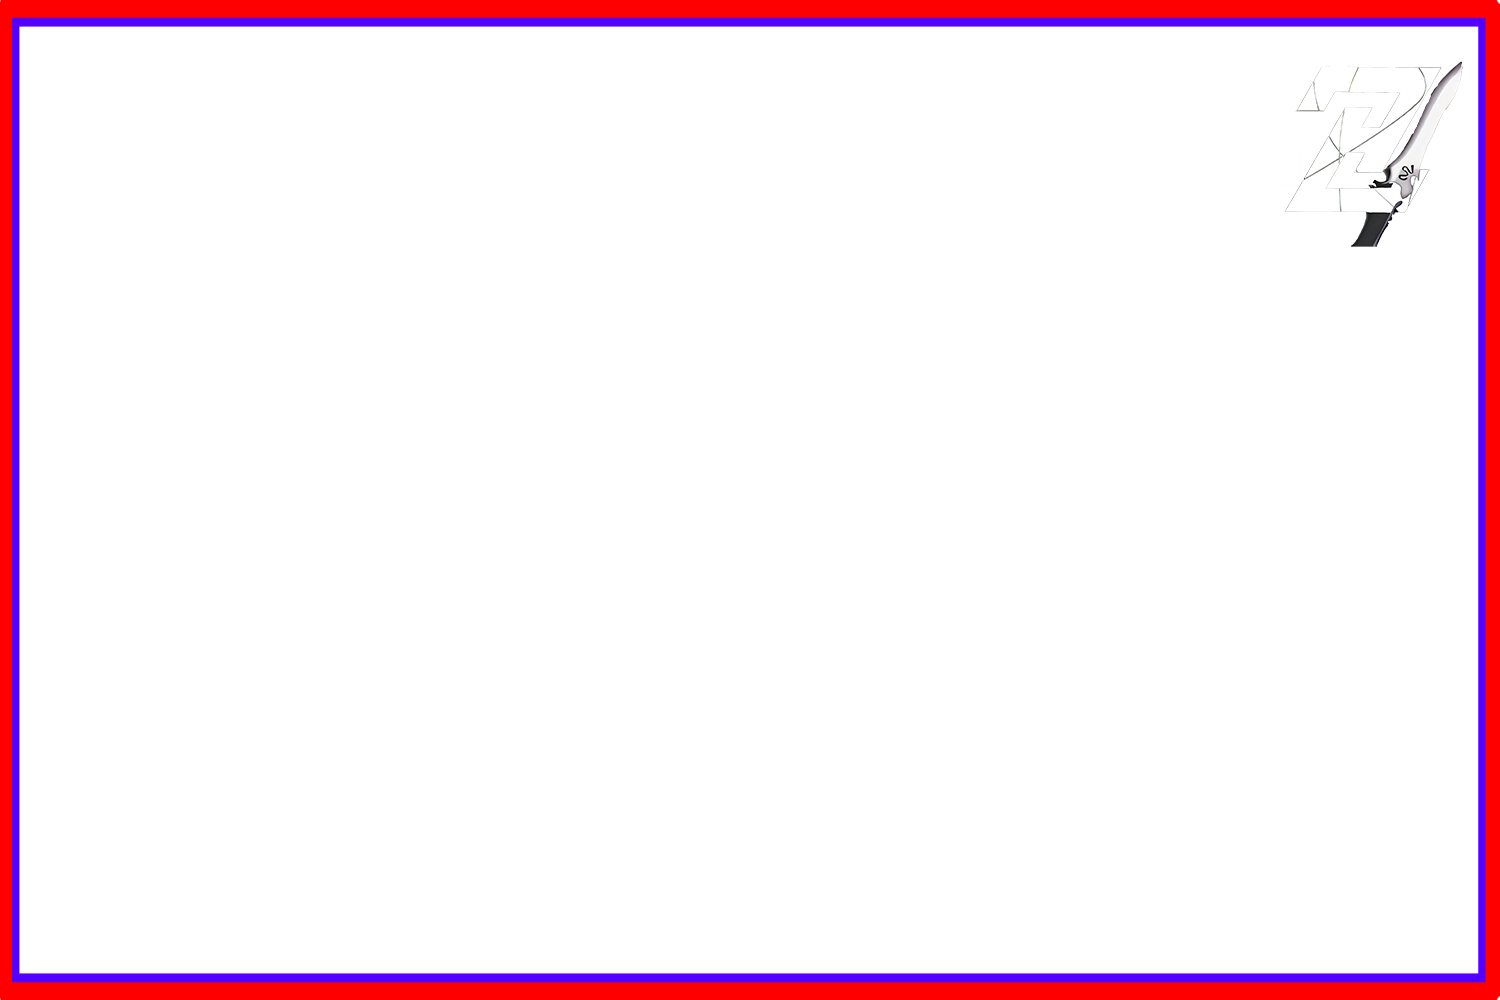
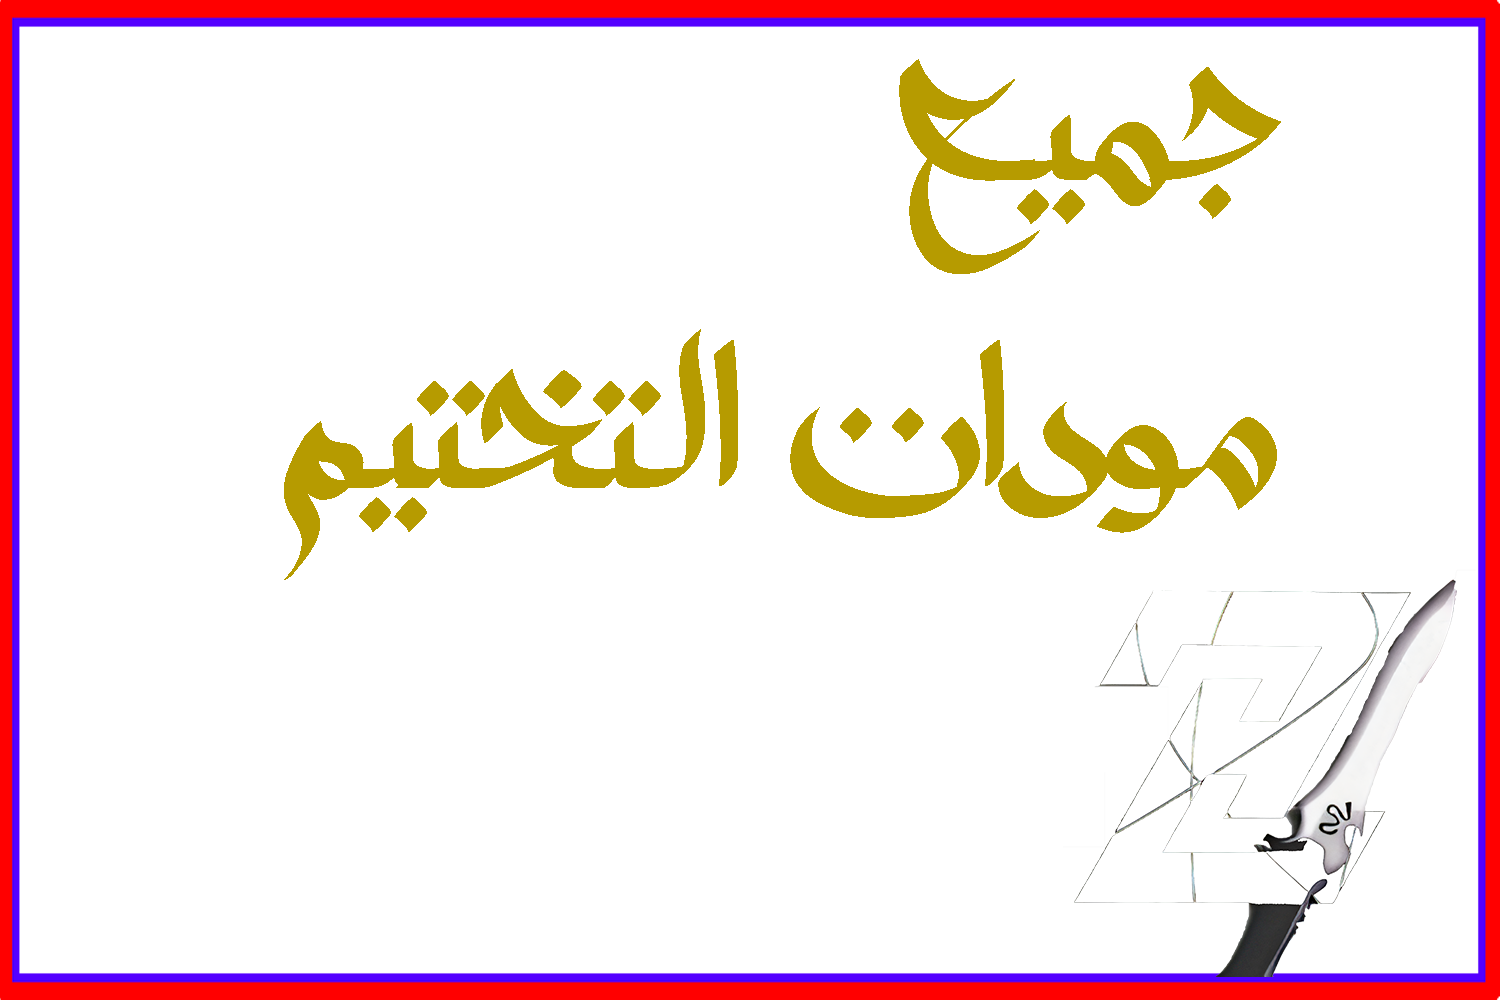
Update

diff --git a/index.html b/index.html
@@ -161,7 +161,7 @@
                 section2TitleBox.classList.add('mb-8');
                 const section2Title = document.createElement('h2');
                 section2Title.classList.add('text-3xl', 'font-semibold', 'mb-4');
-                section2Title.textContent = "Mods of Journey | مودات الرحلة";
+                section2Title.textContent = "مودات التختيم";
                 section2TitleBox.appendChild(section2Title);
 
                 const section2Grid = document.createElement('div');
